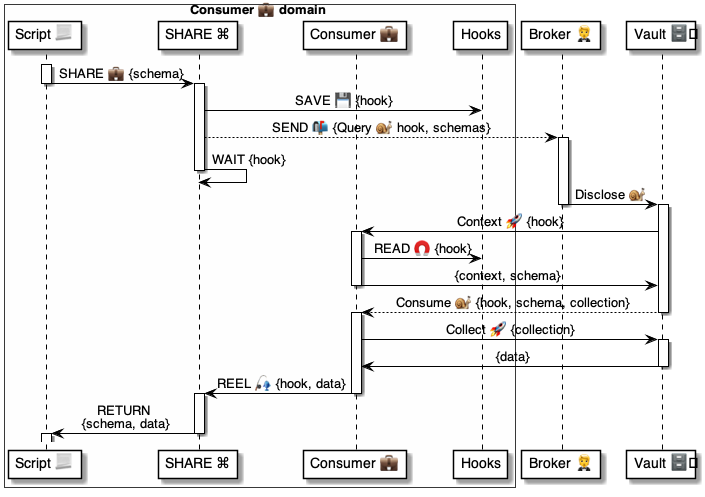
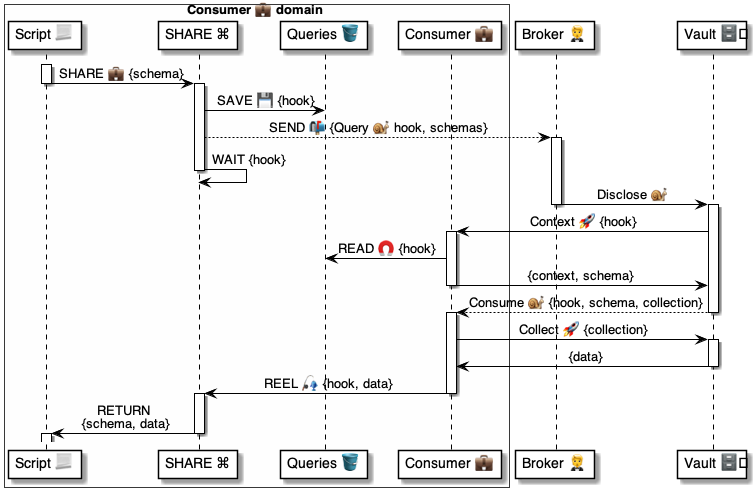
.

diff --git a/4 ⚙ Solution/41 🎭 Domain Roles/Consumers 💼/💼🪣 Consumer tables/Queries 🗄 table/🪣🧱 21 Consume 🔔 event/💼 OnQueryConsume 🔔 handler.md b/4 ⚙ Solution/41 🎭 Domain Roles/Consumers 💼/💼🪣 Consumer tables/Queries 🗄 table/🪣🧱 21 Consume 🔔 event/💼 OnQueryConsume 🔔 handler.md
@@ -1,0 +1,40 @@
+# 💼 OnQueryConsume 🔔 handler
+
+> About
+* Part of the [`Consumer.Queries` 🪣 table](<../🪣 Queries/💼 Consumer.Queries 🪣 table.md>)
+
+<br/>
+
+## Diagram
+
+![alt text](<💼 OnQueryConsume ⚙ uml.png>)
+
+<br/>
+
+## Script
+
+```yaml
+📃 OnQueryConsume:
+
+
+# Verify if the Vault is trusted
+- TRUSTS|$.Msg.From:
+    Schema: $.Msg.Schema$
+    Role: VAULT
+
+# Get the data
+- SEND >> $data:
+    Header: 
+        To: $.Msg.From
+        Subject: Collect@Vault
+    Body:
+        Collect: $.Msg.Collect
+
+# Assert the schema
+- ASSERT|$data:
+    Schema: $.Msg.Schema
+
+# Continue the talker 
+- REEL|$.Msg.Hook:
+    $data
+```

diff --git a/4 ⚙ Solution/41 🎭 Domain Roles/Consumers 💼/💼🅰 Consumer methods/Consume 🗄🐌💼/💼 Consume 📃 handler.md b/4 ⚙ Solution/41 🎭 Domain Roles/Consumers 💼/💼🅰 Consumer methods/Consume 🗄🐌💼/💼 Consume 📃 handler.md
@@ -35,26 +35,6 @@
 - ASSERT|$.Msg:
     Schema.IsIn($hook.Schemas)
 
-# Verify if the Vault is trusted
-- TRUSTS|$.Msg.From:
-    Schema: $.Msg.Schema$
-    Role: VAULT
-
-# Get the data
-- SEND >> $data:
-    Header: 
-        To: $.Msg.From
-        Subject: Collect@Vault
-    Body:
-        Collect: $.Msg.Collect
-
-# Assert the schema
-- ASSERT|$data:
-    Schema: $.Msg.Schema
-
-# Continue the talker 
-- REEL|$.Msg.Hook:
-    $data
 ```
 
 Uses||

diff --git a/4 ⚙ Solution/41 🎭 Domain Roles/Consumers 💼/💼🪣 Consumer tables/Queries 🗄 table/🪣🧱 22 Collected 🔔 event/💼 OnQueryCollected 🔔 handler.md b/4 ⚙ Solution/41 🎭 Domain Roles/Consumers 💼/💼🪣 Consumer tables/Queries 🗄 table/🪣🧱 22 Collected 🔔 event/💼 OnQueryCollected 🔔 handler.md
@@ -1,0 +1,22 @@
+# 💼 OnQueryCollected 🔔 handler
+
+> About
+* Part of the [`Consumer.Queries` 🪣 table](<../🪣 Queries/💼 Consumer.Queries 🪣 table.md>)
+
+<br/>
+
+## Diagram
+
+![alt text](<💼 OnQueryCollected ⚙ uml.png>)
+
+<br/>
+
+## Script
+
+```yaml
+📃 OnQueryCollected:
+
+# Continue the talker 
+- RACE|$Query.ID:
+    $Query.Collected
+```

diff --git a/4 ⚙ Solution/41 🎭 Domain Roles/Consumers 💼/💼🪣 Consumer tables/Queries 🗄 table/🪣 Queries/💼 Consumer.Queries 🪣 table.md b/4 ⚙ Solution/41 🎭 Domain Roles/Consumers 💼/💼🪣 Consumer tables/Queries 🗄 table/🪣 Queries/💼 Consumer.Queries 🪣 table.md
@@ -1,2 +1,9 @@
 # 💼 Consumer.Queries 🪣 table
 
+## Example
+
+From [`OnQueryCollected` 🔔 handler](<../🪣🧱 22 Collected 🔔 event/💼 OnQueryCollected 🔔 handler.md>)
+
+```yaml
+Collected: {...}
+```
